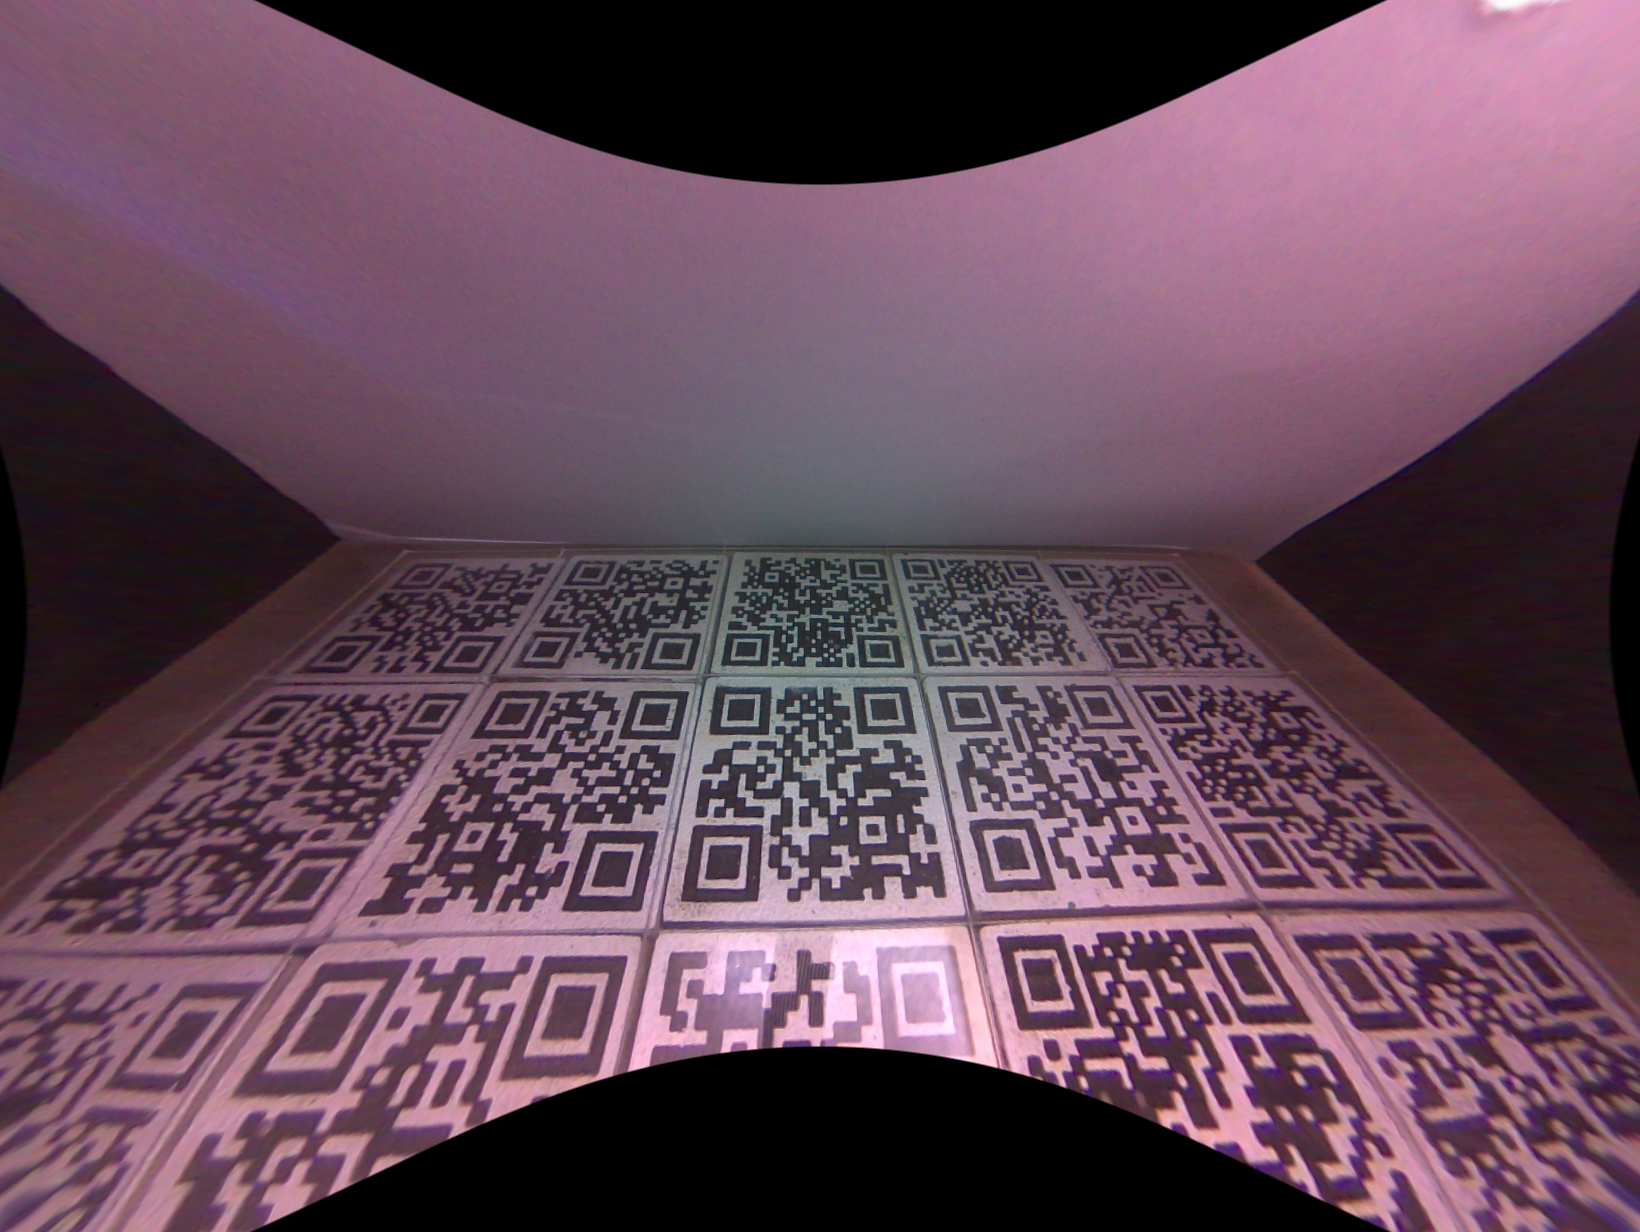
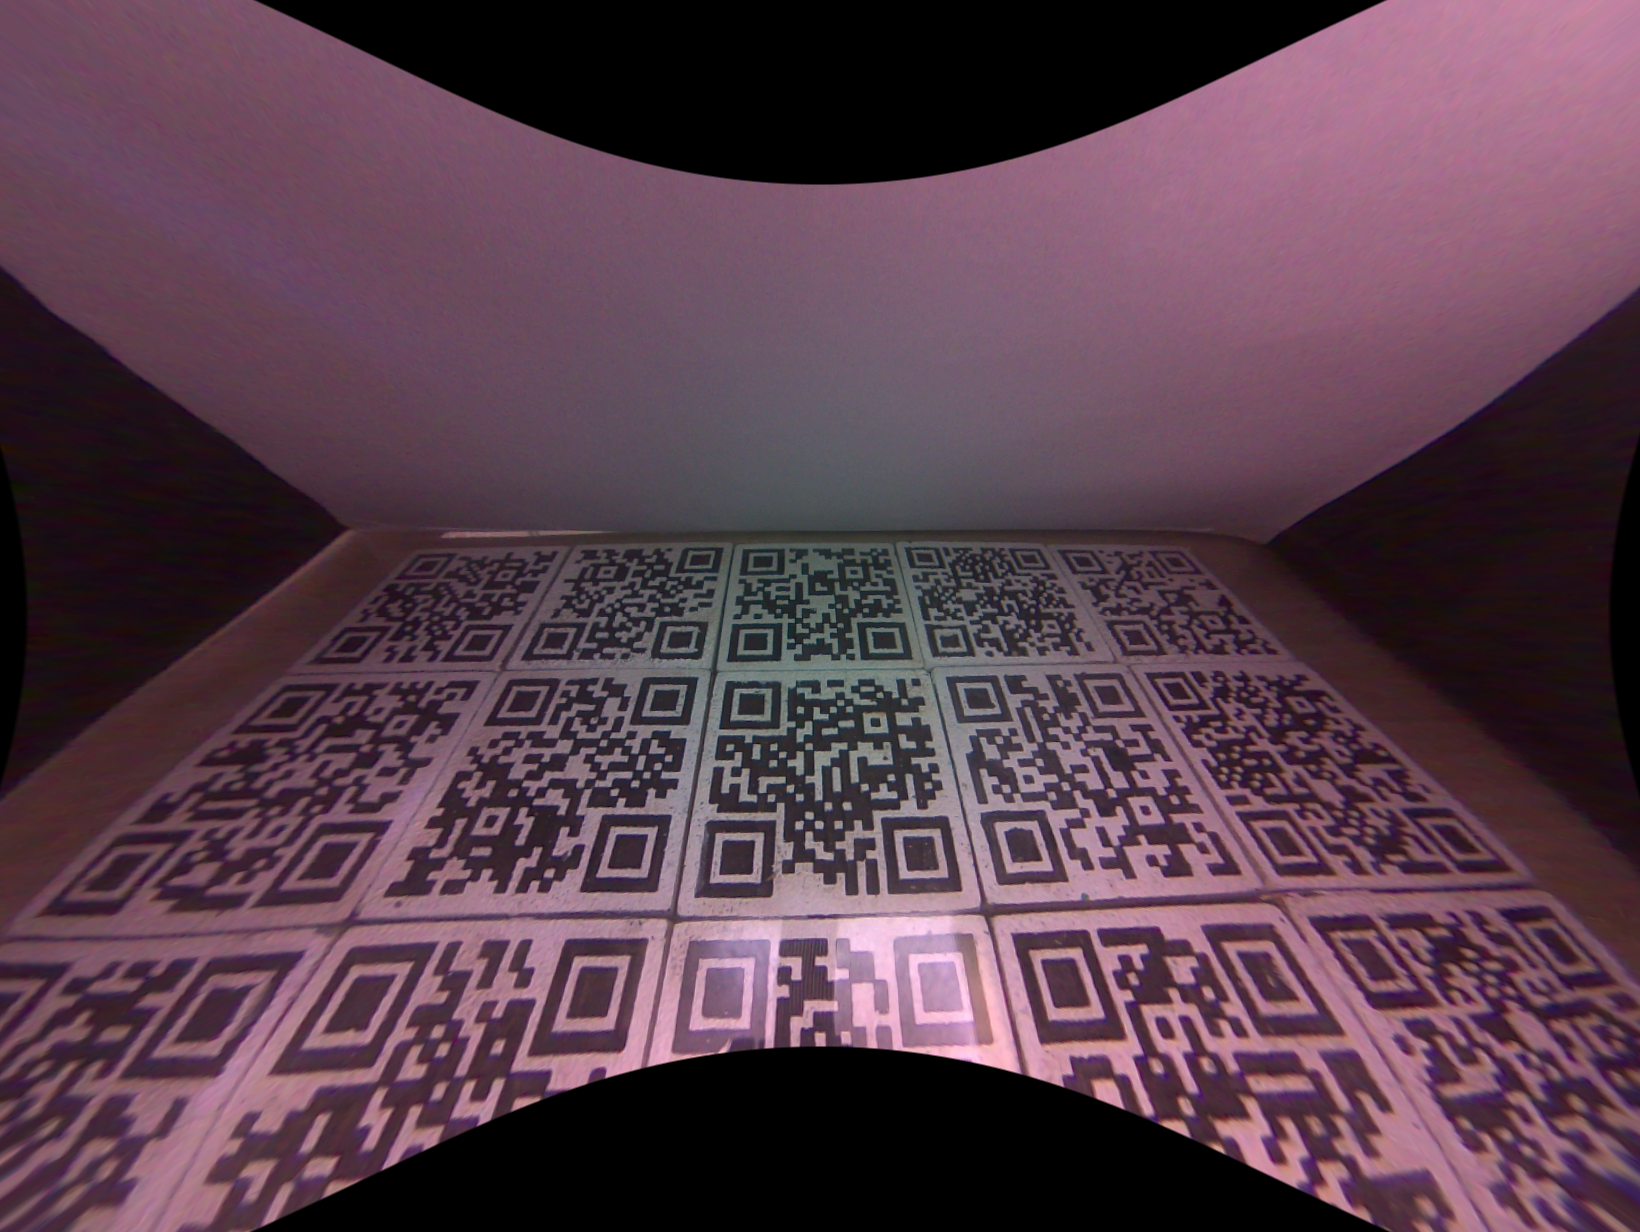
Fix image Processing

diff --git a/main.py b/main.py
@@ -6,7 +6,7 @@ import random
 import Jetson.GPIO as GPIO
 import time
 from gameWindow import GameWindow
-from gamePathLogic import checkTilePlacement, checkAnswerCorrectBool, imageToMatrix, questionDict
+from gamePathLogic import checkTilePlacement, checkAnswerCorrectBool, imageToMatrix, questionDict, generate_grid_matrix_from_qr_images
 from camCalibrate import Camera
 from calibration.perspective_transform_read import correct_perspective_images
 from imageProcessing import split_image, process_image
@@ -29,7 +29,7 @@ def take_images(camera:Camera):
         while True:
             frame = camera.capture()
             elapsed = time.time() - start_time
-            if elapsed > 1.5:
+            if elapsed > 0.6:
                 image_path = os.path.join(CAPTURE_OUTPUT_DIR, f"image_{i}.png")
                 imagePaths.append(image_path)
                 cv2.imwrite(image_path, frame)
@@ -51,18 +51,21 @@ def main():
     GPIO.setup(QUESTION_PIN, GPIO.IN)
     GPIO.setup(ANSWER_PIN, GPIO.IN) 
     GPIO.setup(SERVO_PIN, GPIO.OUT)
+    GPIO.setup(LED_PIN, GPIO.OUT)
     GPIO.add_event_detect(QUESTION_PIN, GPIO.RISING, bouncetime=200)
     GPIO.add_event_detect(ANSWER_PIN, GPIO.RISING, bouncetime=200)
 
     GPIO.output(LED_PIN, GPIO.LOW)
     GPIO.output(SERVO_PIN,GPIO.LOW)
+    light = Light()
+    light.on()
     #Display main start screen code here (Artboard 1)
     
     camera = Camera(debug=True)
     gameWindow = GameWindow("GameWIndow", debug=True)
     capturing_images = False
     randomStage = -1
-  
+    
     while True:
         camera.capture(correct_distortion=False)
         # question button pressed, randomize question from question dict
@@ -79,10 +82,12 @@ def main():
             imagePaths = take_images(camera) #take images while rotating the servo
             capturing_images = False
 
-            perspextive_corrected_images = correct_perspective_images(imagePaths, output_dir=PERS_OUTPUT_DIR)
-            splitted_images = split_image(perspextive_corrected_images, output_dir=SPLIT_OUTPUT_DIR, rows=1, cols=5, overlap_percent=15)
-            split_image = [process_image(image) for image in splitted_images]
-            stageMatrix = imageToMatrix(splitted_images)
+            perspective_corrected_images = correct_perspective_images(imagePaths, output_dir=PERS_OUTPUT_DIR)
+            # splitted_images = split_image(perspective_corrected_images, output_dir=SPLIT_OUTPUT_DIR, rows=1, cols=5, overlap_percent=15)
+            # splitted_images = [process_image(image) for image in splitted_images]
+            # stageMatrix = imageToMatrix(splitted_images)
+            processed_image = [process_image(image) for image in perspective_corrected_images]
+            stageMatrix = generate_grid_matrix_from_qr_images(processed_image)
             print(stageMatrix)
 
             placementIsCorrect = checkTilePlacement(randomStage, stageMatrix)
@@ -91,7 +96,6 @@ def main():
                 print(answerIsCorrect)
             else:
                 print("Placement is not correct")
-        # time.sleep(0.1)
 
 if __name__ == '__main__':
     main() 

diff --git a/imageProcessing.py b/imageProcessing.py
@@ -2,6 +2,8 @@ import cv2
 import os
 import math # Need this for ceiling function
 import typing
+import numpy as np
+from pyzbar import pyzbar
 
 SPLIT_IMAGE_DIR = "split_images"
 
@@ -11,13 +13,14 @@ def process_image(image_path:str)->str:
     new = cv2.cvtColor(img, cv2.COLOR_BGR2HSV)
     # cropped[:,:,1] = 0
     # Use adaptive thresholding on the V channel
+    new = cv2.GaussianBlur(new, (7, 7), 0)
     thresh_v = cv2.adaptiveThreshold(
         new[:, :, 2],
         255,
         cv2.ADAPTIVE_THRESH_GAUSSIAN_C,
         cv2.THRESH_BINARY_INV,
         51,
-        2
+        0
     )
     new[:, :, 2] = thresh_v
     avgValue = new[:,:,2].mean()
@@ -27,7 +30,7 @@ def process_image(image_path:str)->str:
     new = cv2.cvtColor(new, cv2.COLOR_HSV2BGR) #these three lines can me refactored into one, im too lazy tho
     new = cv2.cvtColor(new, cv2.COLOR_BGR2GRAY)
     new = cv2.cvtColor(new, cv2.COLOR_GRAY2BGR) 
-    iterations = max( 1 ,max(img.shape[0], img.shape[1]) // 500 )# adaptive iteration, set iteration to minimum of 1
+    iterations = max( 1 ,min(img.shape[0], img.shape[1]) // 500 )# adaptive iteration, set iteration to minimum of 1
     new = cv2.erode(new, None, iterations=iterations) # * lower iterations if detail is lost
     new = cv2.dilate(new, None, iterations=iterations) # * lower iterations if detail is lost
     writePath = os.path.splitext(PATH)[0]+"_processed"+os.path.splitext(PATH)[1]
@@ -179,9 +182,9 @@ def split_image(image_paths, output_dir=SPLIT_IMAGE_DIR, rows=1, cols=1, overlap
 
                     # # Convert the image to grayscale
                     tile = cv2.cvtColor(tile, cv2.COLOR_BGR2GRAY)
-                    tile = cv2.GaussianBlur(tile, (5, 5), 0)
-                    kernel = np.array([[0, -1, 0], [-1, 5, -1], [0, -1, 0]])
-                    tile = cv2.filter2D(tile, -1, kernel)
+                    # tile = cv2.GaussianBlur(tile, (5, 5), 0)
+                    # kernel = np.array([[0, -1, 0], [-1, 5, -1], [0, -1, 0]])
+                    # tile = cv2.filter2D(tile, -1, kernel)
 
                     # # Now apply thresholding to the grayscale image
                     # thresh, tile = cv2.threshold(tile, 0, 255, cv2.THRESH_BINARY | cv2.THRESH_OTSU)

diff --git a/gamePathLogic.py b/gamePathLogic.py
@@ -331,7 +331,7 @@ def decode_qrs_in_row(image_path_or_img_array, num_expected_qrs=5):
 
     return output_list
 
-def generate_grid_matrix_from_qr_images(row_image_paths: list, p_dict, num_qrs_per_row_image=5, grid_rows=5):
+def generate_grid_matrix_from_qr_images(row_image_paths: list, p_dict = pathDict, num_qrs_per_row_image=5, grid_rows=5):
     """
     Processes multiple images, each containing a row of QR codes,
     to build a final grid matrix.

diff --git a/lightControl.py b/lightControl.py
@@ -13,4 +13,5 @@ class Light:
         GPIO.output(self.pin, GPIO.HIGH)
 
     def __del__(self):
+        print("Turning Light off")
         self.off()
